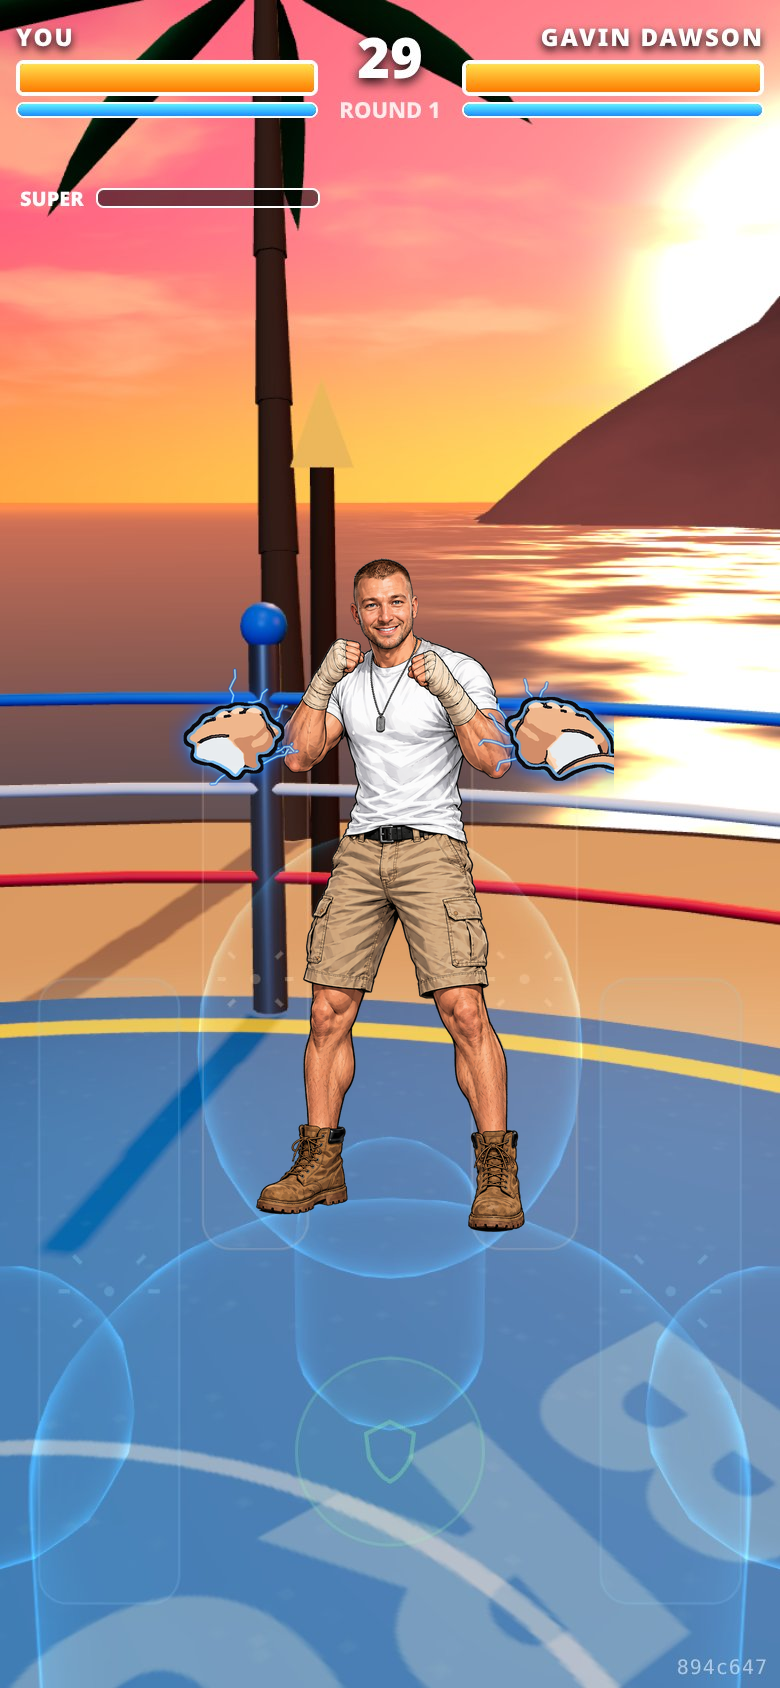
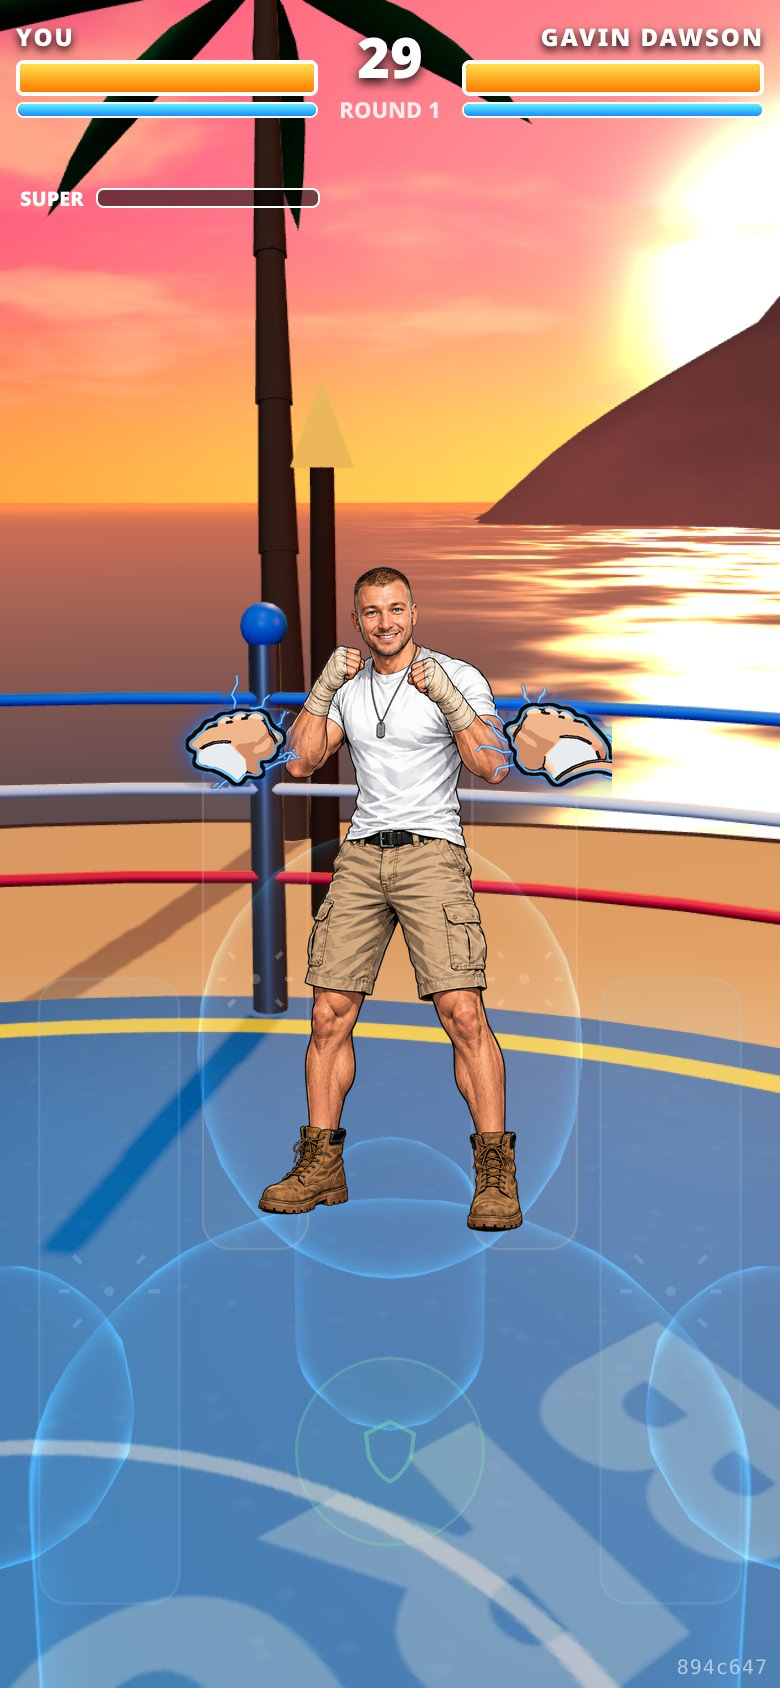
Fighter heights: measure skull to feet (humans 6 ft = 662 px, Tank 7 ft = 775 px), rescale Jay, Ozone, Tank punchouts, rebuild lineup, NOTES

Changed region(s): [[0.2154, 0.3081, 0.8, 0.7393]]

diff --git a/fighter-art/NOTES.md b/fighter-art/NOTES.md
@@ -2,7 +2,8 @@
 
 - Style guide for drawing new fighters in ChatGPT: fighter_style_guide.md
 - Heights: measure to top of skull, not hair or hats. All humans 6 ft. Tank 7 ft max (about 1.17x a human).
-- TODO: rescale Ozone so his skull matches Gavin and Jay (top knot sticks up above). Rescale Tank down to 7 ft. Rebuild lineup.png.
+- DONE (Nov 2 2026): heights fixed, measured skull top to feet (under Gavin's cap, Ozone's top knot, Tank's fedora). Punch-out scale: every human 662 px skull to feet (Gavin's approved scale), Tank 775 px (1.17x). Feet stay on y 1231. Sprite boxes now Gavin 674, Jay 666, Ozone 697, Tank 811 px tall. Old files kept as *_v_prefix_heights.png in the work folders.
+- DONE (Nov 2 2026): lineup.png rebuilt, all four on one baseline with 6 ft and 7 ft guide lines at the skull tops.
 - TODO: HUD name is baked into the mockup background (shows GAVIN DAWSON on every fighter).
 - TODO: 19 unique backgrounds. 12 of 19 home bases received, see Backgrounds below.
 
